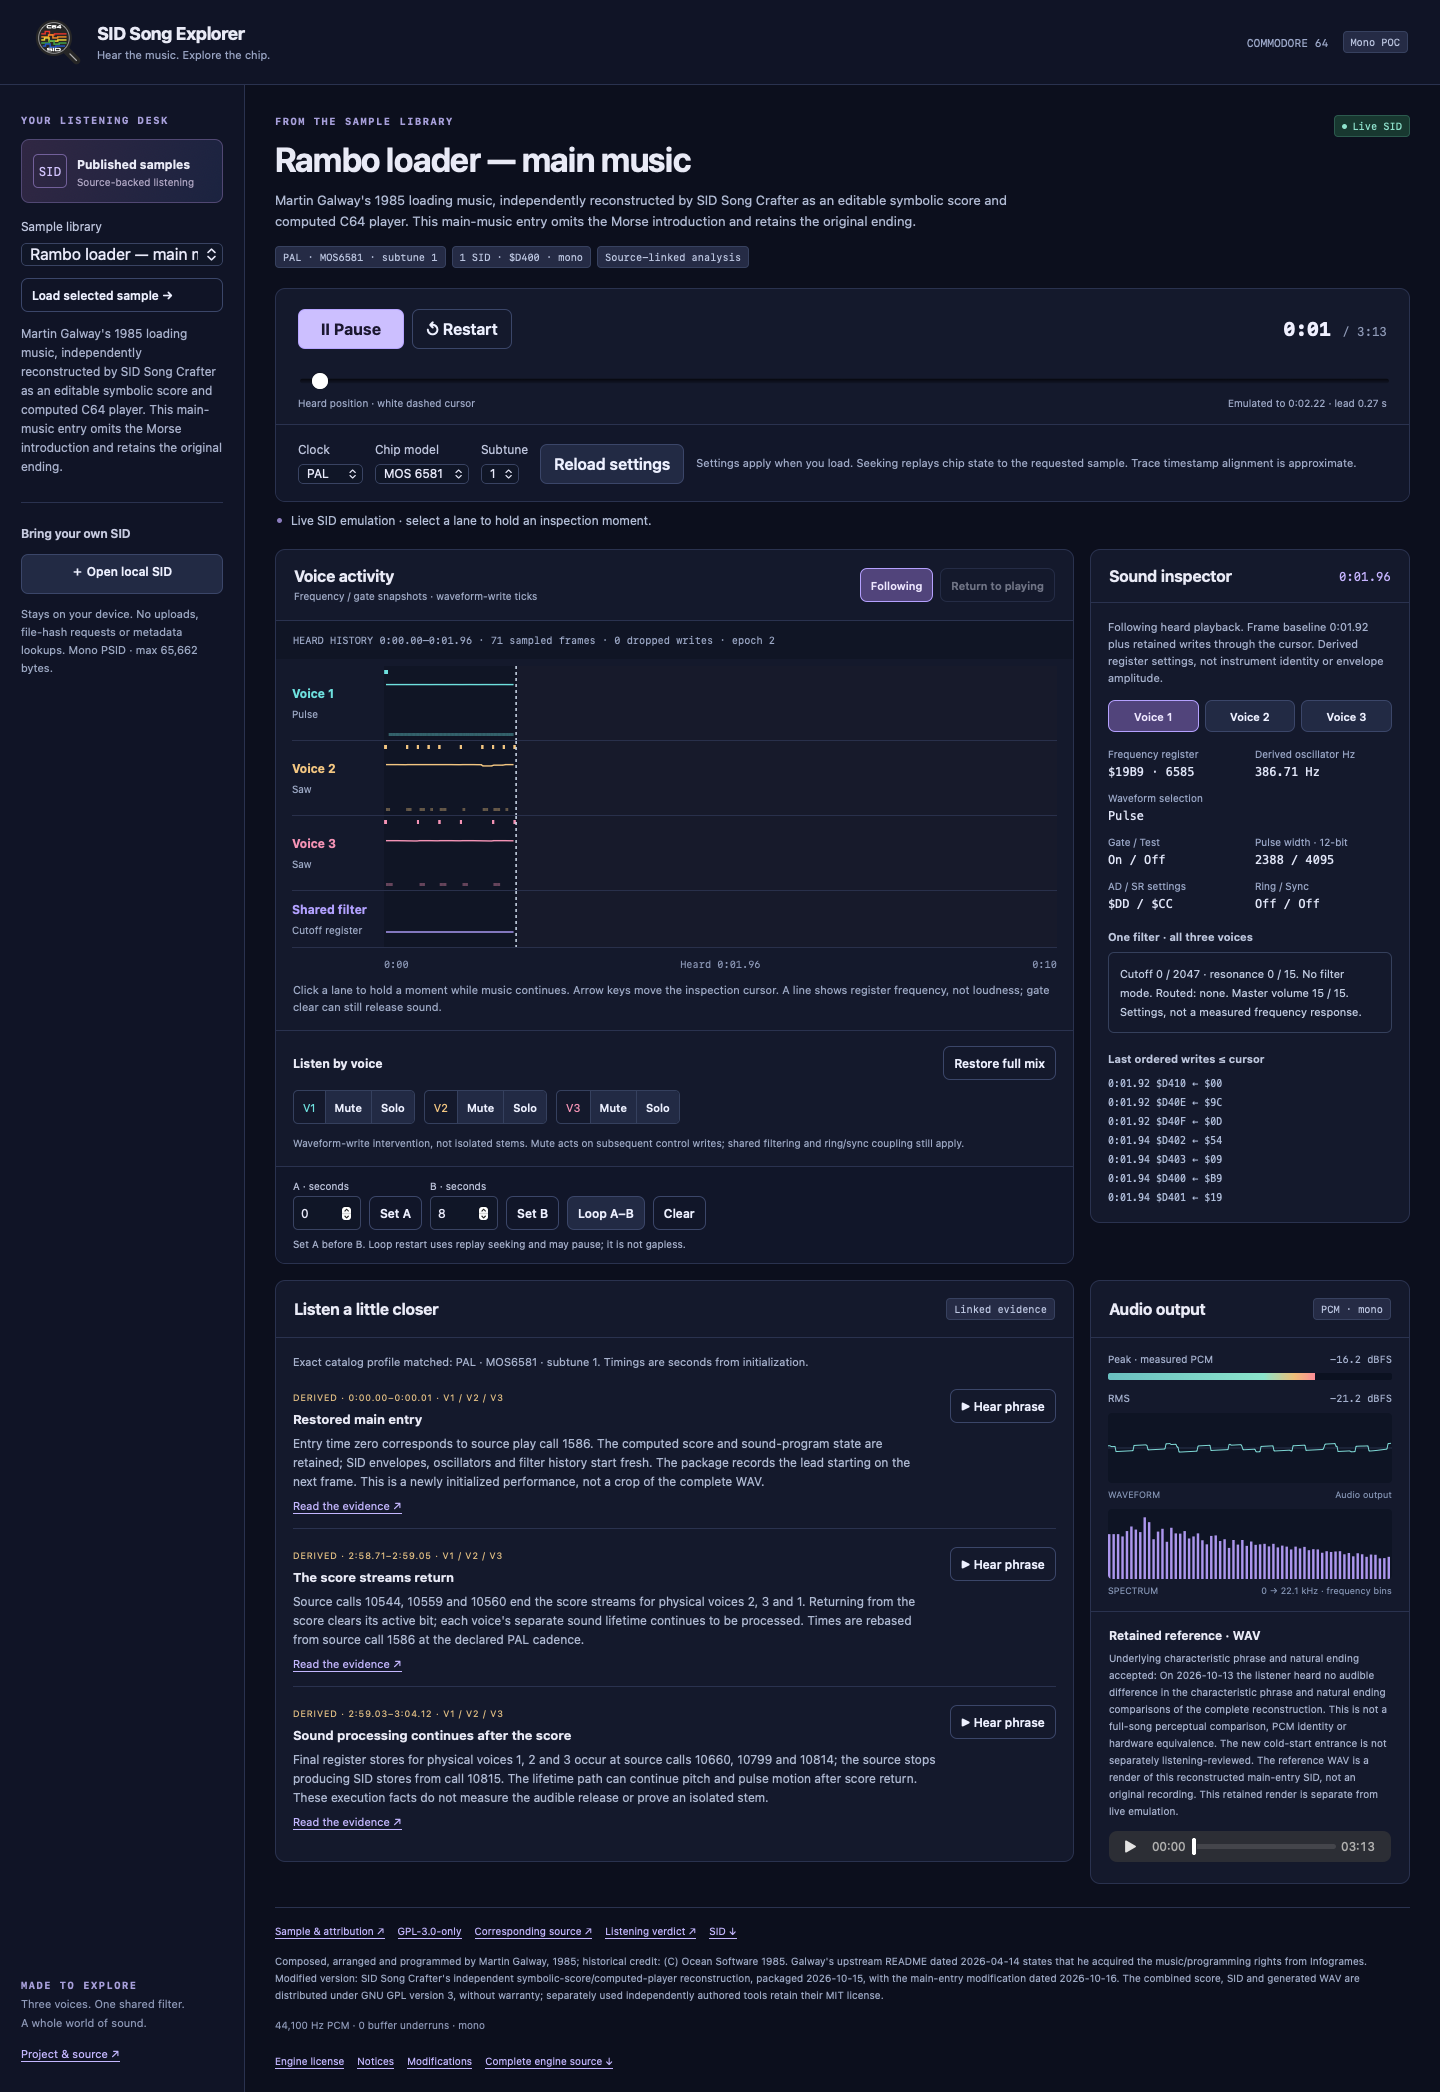
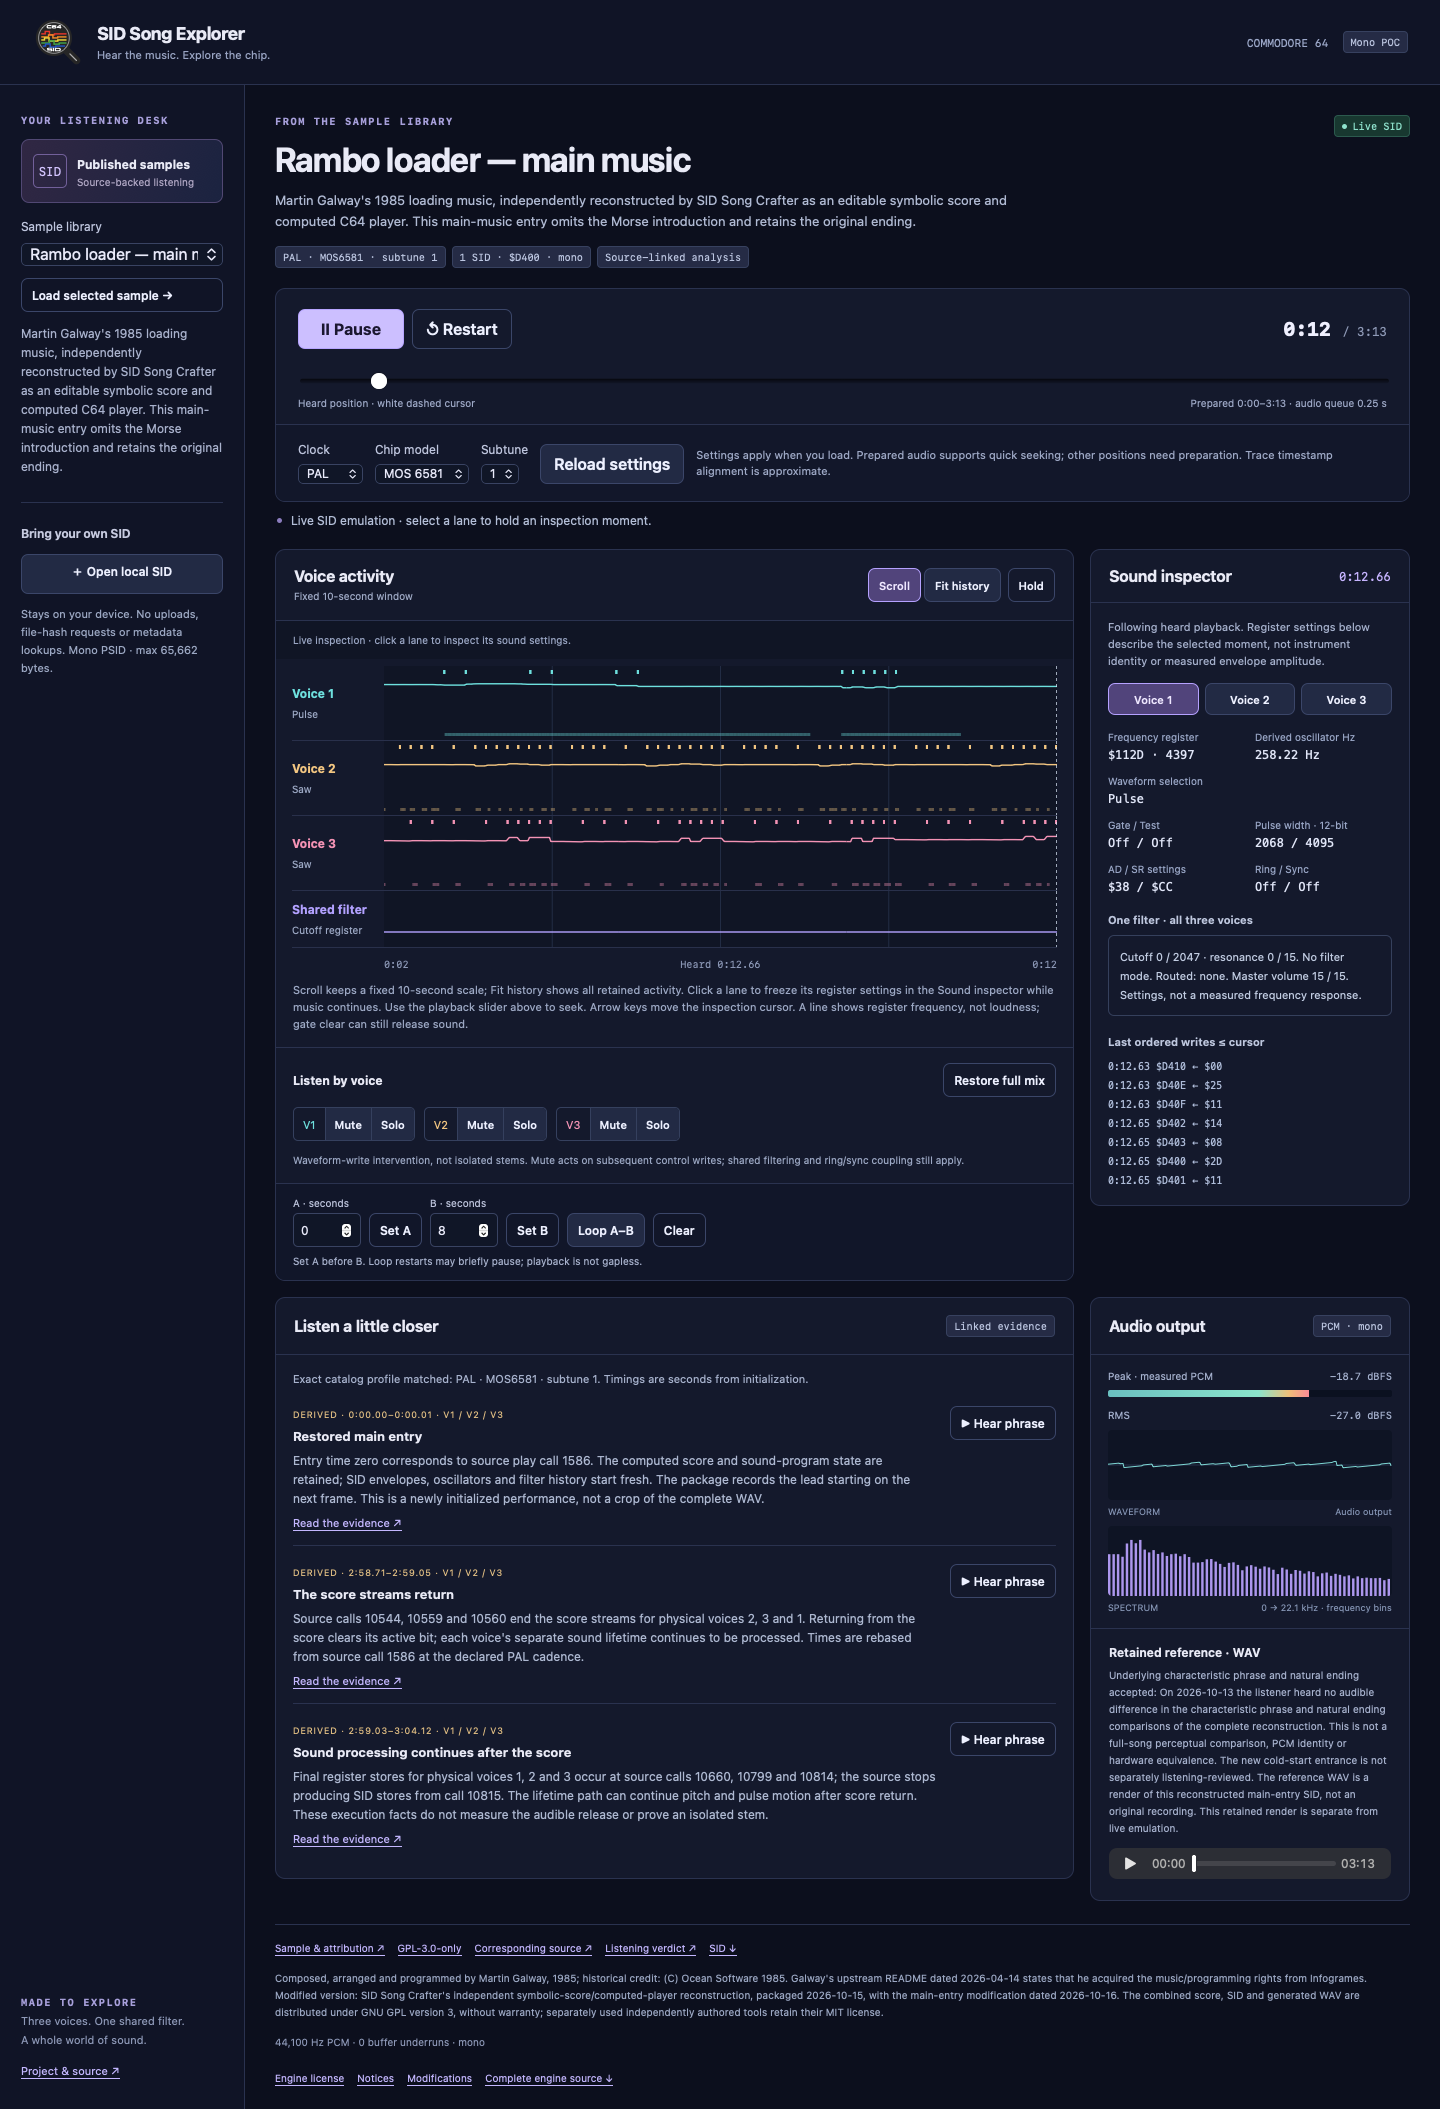
fix(inspector): keep trace loss visible in compact history
The compact history strip had moved dropped-write counts into a tooltip, hiding incomplete trace coverage. Preserve a visible warning for the selected live or held interval without adding a control row.

diff --git a/src/ui.ts b/src/ui.ts
@@ -54,7 +54,7 @@ export function mountExplorer(root: HTMLElement, controls: PlayerControls, catal
         <div id="status-message" class="status-line" role="status" aria-live="polite">Choose the published sample or open a local file.</div>
         <div class="inspection-grid">
           <section class="panel" aria-labelledby="timeline-title"><div class="panel-header"><div><h2 id="timeline-title">Voice activity</h2><small id="timeline-view-note">Fixed ${FOLLOW_WINDOW_SECONDS}-second window</small></div><div class="follow-controls"><div class="timeline-modes" role="group" aria-label="Timeline view"><button id="timeline-scroll" class="small" aria-pressed="true" title="Follow at a fixed ten-second scale">Scroll</button><button id="timeline-fit" class="small" aria-pressed="false" title="Fit all retained activity into the chart">Fit history</button></div><button id="follow-button" class="small quiet" title="Hold the current moment in the Sound inspector">Hold</button><button id="return-button" class="small" hidden>Resume live</button></div></div>
-            <div id="history-summary" class="history-summary"><span id="history-description">No retained observations yet.</span> <a id="view-inspector" href="#inspector-title" hidden>View inspector →</a></div>
+            <div id="history-summary" class="history-summary"><span id="history-description">No retained observations yet.</span> <span id="trace-warning" role="status" hidden></span> <a id="view-inspector" href="#inspector-title" hidden>View inspector →</a></div>
             <div class="lane-list">${COLORS.map((color, voice) => `<div class="voice-lane" style="--voice:${color}"><div class="voice-label"><strong>Voice ${voice + 1}</strong><small id="lane-wave-${voice}">No observation</small></div><canvas id="voice-lane-${voice}" class="lane-plot" tabindex="0" role="slider" aria-label="Select inspection time for voice ${voice + 1}" aria-valuemin="0" aria-valuemax="30" aria-valuenow="0"></canvas></div>`).join('')}
               <div class="voice-lane filter-lane" style="--voice:#b2a1ff"><div class="voice-label"><strong>Shared filter</strong><small>Cutoff register</small></div><canvas id="filter-lane" class="lane-plot" tabindex="0" role="slider" aria-label="Select shared filter inspection time" aria-valuemin="0" aria-valuemax="30" aria-valuenow="0"></canvas></div><div class="timeline-key mono"><span id="timeline-start">0:00</span><span id="timeline-cursor">Heard playhead</span><span id="timeline-end">0:30</span></div>
             </div><p class="timeline-help">Scroll keeps a fixed ${FOLLOW_WINDOW_SECONDS}-second scale; Fit history shows all retained activity. Click a lane to freeze its register settings in the Sound inspector while music continues. Use the playback slider above to seek. Arrow keys move the inspection cursor. A line shows register frequency, not loudness; gate clear can still release sound.</p>
@@ -652,6 +652,9 @@ export function mountExplorer(root: HTMLElement, controls: PlayerControls, catal
     const plotFrames = visibleTimelineFrames(frames, Math.max(plotStart, historyStart), Math.min(plotEnd, observedUntil));
     el('history-summary').title = `${held ? 'HELD COPY' : 'HEARD HISTORY'} ${time(historyStart, true)}–${time(observedUntil, true)} · ${frames.length} sampled frames · ${held?.dropped ?? state?.dropped ?? 0} dropped writes · epoch ${held?.epoch ?? state?.epoch ?? 0}`;
     setText('history-description', held ? `Inspecting ${inspectionSubject()} at ${time(cursor, true)} · chart held${state?.status === 'playing' ? '; music continues' : ''}.` : `Live inspection · click a lane to inspect its sound settings.`);
+    const dropped = held?.dropped ?? state?.dropped ?? 0;
+    el('trace-warning').hidden = dropped === 0;
+    setText('trace-warning', dropped ? `Trace incomplete: ${dropped} dropped writes.` : '');
     el('history-summary').classList.toggle('held', Boolean(held));
     setText('timeline-start', time(plotStart));
     setText('timeline-end', time(plotEnd));

diff --git a/tests/browser/trace-coverage.spec.ts b/tests/browser/trace-coverage.spec.ts
@@ -1,0 +1,33 @@
+import {test, expect} from './fixtures.ts';
+
+test('trace loss is visible and remains attached to held inspection across a seek', async ({page}) => {
+  await page.addInitScript(() => {
+    const NativeWorker = window.Worker;
+    window.Worker = class extends NativeWorker {
+      constructor(url: string | URL, options?: WorkerOptions) {
+        super(url, options);
+        let injected = false;
+        this.addEventListener('message', event => {
+          if (!injected && event.data.result?.pcm) {
+            event.data.result.dropped = 7;
+            injected = true;
+          }
+        });
+      }
+    };
+  });
+  await page.goto('/');
+  await page.locator('#load-button').click();
+  await expect(page.locator('#play-button')).toBeEnabled();
+  await expect(page.locator('#trace-warning')).toBeHidden();
+  await page.locator('#play-button').click();
+  await expect(page.locator('#trace-warning')).toBeVisible();
+  await expect(page.locator('#trace-warning')).toContainText('7 dropped writes');
+  await page.locator('#follow-button').click();
+  await page.locator('#seek-slider').fill('10');
+  await expect(page.locator('#play-status')).toHaveText('Live SID');
+  await expect(page.locator('#trace-warning')).toContainText('7 dropped writes');
+  await page.locator('#return-button').click();
+  await expect(page.locator('#trace-warning')).toBeHidden();
+  await page.locator('#play-button').click();
+});

diff --git a/src/style.css b/src/style.css
@@ -169,6 +169,7 @@ audio { display: block; width: 100%; height: 36px; color-scheme: dark; }
 .follow-controls { flex-shrink: 0; }
 .follow-controls button { white-space: nowrap; }
 [hidden] { display: none !important; }
+#trace-warning { color: #ffb6c4; font-weight: 600; }
 .history-summary.held { color: #d5c4ff; background: #211c37; }
 #view-inspector { white-space: nowrap; margin-left: 5px; }
 .inspector.held { border-color: #aa8bdf; }

diff --git a/docs/validation/mono-poc.md b/docs/validation/mono-poc.md
@@ -64,3 +64,19 @@ The final integrated unit suite passed all 38 tests in 15.36 seconds on Node 24.
 The first uninterrupted rerun reached the declared ending with zero dropped writes and zero buffer underruns in its retained page snapshot, but its assertion still searched the visible history text after the feedback revision had moved diagnostic counts into the tooltip. The guard now checks the title attribute and explicitly asserts zero buffer underruns. This was a test-selector mismatch, not interrupted playback.
 
 The corrected silent WebKit full-song check passed in 3.3 minutes: uninterrupted playback reached 3:13 with zero buffer underruns, zero dropped writes and no page errors. The final production build passed after updating the loop help text to describe cache-aware restarts; uninterrupted playback still makes no gapless-loop or physical-listening claim.
+
+## Completion audit
+
+The 2026-10-19 audit confirmed the public GitHub repository and tracked guide, relative AGENTS symlink, README, license and selected logo exports. The README now uses the pinned Node version consistently and displays the current compact transport with prepared seeking.
+
+| Required POC outcome | Evidence and disposition |
+| --- | --- |
+| Public standalone handoff | GitHub reports `mbackschat/sid-song-explorer` as PUBLIC; guide, symlink and branding are tracked. Asset preparation and catalog guards exercise pinned downloads without a sibling checkout; the interim snapshot boundary remains explicit in [source preparation](../integration/poc-sources.md). |
+| Mono playback, local opening, voice controls, loops and heard-position inspection | Engine/timeline guards and sixteen silent Chrome/WebKit interactions pass; supported PSID/profile limitations remain in [the adapter](../architecture/playback-adapter.md). |
+| Trace loss is visibly disclosed | The audit found that compacting the history strip had left the count only in a tooltip. [The regression](../../tests/browser/trace-coverage.spec.ts) failed before the fix; both browsers passed in 6.2 seconds afterward. Nonzero losses now show an inline warning in the existing strip; held inspection retains its own warning across a seek, and returning live uses the current interval. |
+| Responsive prepared seeking without changing audio/observations | Exact replay comparisons, memory bounds, configuration invalidation and browser response measurements pass as recorded above and in [the study](../research/seek-performance.md). |
+| Uninterrupted complete-song automated playback | Silent WebKit reached the ending with zero underruns, zero dropped writes and no page errors. This remains execution evidence. |
+| Actual Safari playback and audible agreement with the retained render | Not established by Playwright. Pending direct browser/listening review; no Safari setting change is required for the handoff. |
+| Explanations make the documented finding clearer | Pending the user's product judgment; an async review request is outstanding. |
+
+Production build and documentation checks passed after the warning fix. The audio engine and transport were unchanged by this final presentation correction, so their passed full-duration and exact-audio checks were not repeated. Milestone 1 remains open for the direct-browser and human verdicts; dual-SID and the normalized Crafter producer remain deferred under [the plan](../../PLAN.md).

diff --git a/PLAN.md b/PLAN.md
@@ -23,6 +23,8 @@ The user requested faster seeking on 2026-10-18. The [seeking study](docs/resear
 
 The [interim POC catalog snapshot](docs/integration/poc-sources.md) pins cleared Rambo main-entry files and source-backed metadata at Crafter revision `3db086b6963676ef75f34d7f77c3b67232a777fb`. The parser and bounded preparation command are implemented, with tested hash verification and network preparation. The normal install/build/runtime has no sibling checkout dependency. `pnpm prepare:assets` also packages the adopted engine's notices and complete corresponding source. Sample acceptance remains scoped to the underlying characteristic phrase and natural ending; the new cold-start entrance is not separately accepted.
 
+The [completion audit](docs/validation/mono-poc.md#completion-audit) on 2026-10-19 verified the public handoff and current automated evidence, restored an inline warning for dropped traces, and requested the remaining human review. No listening or explanation-value acceptance has been recorded.
+
 ## Next completion gates
 
 The user directed on 2026-10-18 to use Playwright and headless validation as much as possible. Prioritize those checks; do not block this POC handoff on enabling Safari automation. Real-device and human listening gates remain explicitly unverified.

diff --git a/README.md b/README.md
@@ -26,7 +26,7 @@ The POC accepts a bounded callable mono PSID subset; RSID, ROM/interrupt-driven 
 
 ## Set up and validate
 
-Use Node.js 24.18.0 (package minimum 24.12) and pnpm 11.20.0. The current development run uses Node.js 26.10.0; package versions are pinned in [package.json](package.json) and [the lockfile](pnpm-lock.yaml).
+Use Node.js 24.18.0 (package minimum 24.12) and pnpm 11.20.0. Package versions are pinned in [package.json](package.json) and [the lockfile](pnpm-lock.yaml).
 
 ```sh
 git clone https://github.com/mbackschat/sid-song-explorer.git
